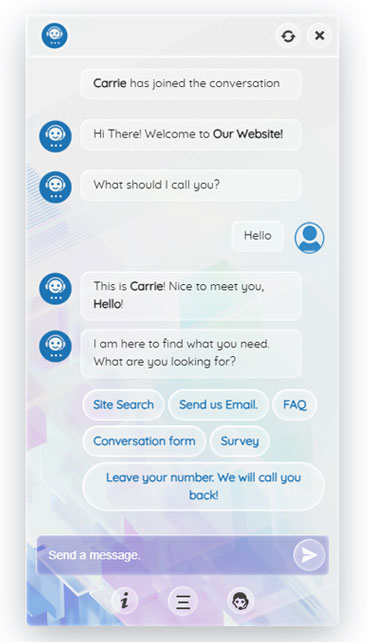
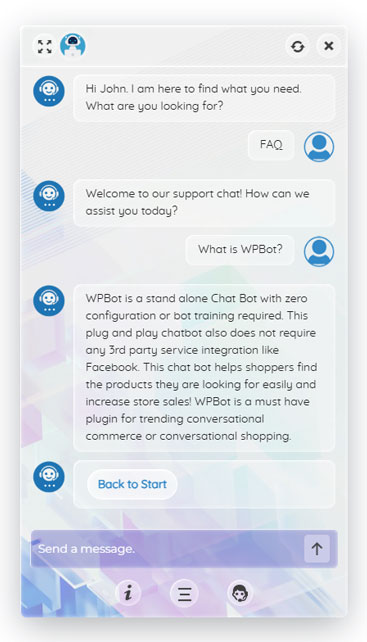
8.3.2

diff --git a/chatbot/templates/template-00/style.css b/chatbot/templates/template-00/style.css
@@ -1178,3 +1178,6 @@ div#wp-chatbot-desktop-expand span.dashicons.dashicons-editor-contract {
 .wp-chatbot-footer button#wp-chatbot-send-message {
     border: none;
 }
+.wp-chatbot-template-01 div#wp-chatbot-board-container {
+    width: 400px;
+}

diff --git a/chatbot/includes/admin/templates/rag.php b/chatbot/includes/admin/templates/rag.php
@@ -17,6 +17,7 @@ $wpchatbot_license_valid            = get_option('wpchatbot_license_valid');
         <h2 class="nav-tab-wrapper">
             <a href="#qcld-rag-settings-tab" class="nav-tab nav-tab-active"> Setting options</a>
             <a href="#rag-sync" class="nav-tab">Sync and upload options</a>
+            <a href="#rag-sources" class="nav-tab">Manage Sources</a>
             <a href="#rag-database" class="nav-tab">KnowledgeBase Database</a>
         </h2>
 
@@ -113,30 +114,80 @@ $wpchatbot_license_valid            = get_option('wpchatbot_license_valid');
                                <!-- ===========================
                             SYNC SETTINGS
                         ============================ -->
+                            <!-- ===========================
+                            PDF UPLOAD (AJAX)
+                        ============================ -->
                         <div class="wrap">
                             <h3>Sync Settings</h3>
-
+                            
                             <div class="mb-3">
                                 <input type="checkbox" id="rag_auto_sync_enabled" <?php checked(get_option('rag_auto_sync_enabled'), '1'); ?>>
                                 <label for="rag_auto_sync_enabled"><strong>Enable Auto Sync (on Save)</strong></label>
                                 <p class="description">Automatically update embeddings when a post or product is saved/updated.</p>
                             </div>
+                         <hr>
+                            <?php
+                            $sync_interval = get_option('rag_sync_interval', 'daily');
+                            $interval_labels = [
+                                'hourly' => '(Hourly)',
+                                'twicedaily' => '(Twice Daily)',
+                                'daily' => '(Daily)',
+                                'weekly' => '(Weekly)',
+                            ];
+                            $interval_desc = [
+                                'hourly' => 'once per hour',
+                                'twicedaily' => 'twice per day',
+                                'daily' => 'once per day',
+                                'weekly' => 'once per week',
+                            ];
+                            $current_label = $interval_labels[$sync_interval] ?? '(Daily)';
+                            $current_desc = $interval_desc[$sync_interval] ?? 'once per day';
+                            ?>
+
+                            <div class="mb-3">
+                                <input type="checkbox" id="rag_googlesheets_autosync_enabled" <?php checked(get_option('rag_googlesheets_autosync_enabled'), '1'); ?>>
+                                <label for="rag_googlesheets_autosync_enabled"><strong>Enable Google Sheets Auto Sync <span class="rag-sync-label"><?php echo $current_label; ?></span></strong></label>
+                                <p class="description">Automatically re-sync all Google Sheets in the knowledge base <span class="rag-sync-desc"><?php echo $current_desc; ?></span>.</p>
+                            </div>
+
+                            <div class="mb-3">
+                                <input type="checkbox" id="rag_googledocs_autosync_enabled" <?php checked(get_option('rag_googledocs_autosync_enabled'), '1'); ?>>
+                                <label for="rag_googledocs_autosync_enabled"><strong>Enable Google Docs Auto Sync <span class="rag-sync-label"><?php echo $current_label; ?></span></strong></label>
+                                <p class="description">Automatically re-sync all Google Docs in the knowledge base <span class="rag-sync-desc"><?php echo $current_desc; ?></span>.</p>
+                            </div>
+
+                            <div class="mb-3">
+                                <label for="rag_sync_interval"><strong>Sync Interval:</strong></label>
+                                <select id="rag_sync_interval">
+                                    <option value="daily" <?php selected(get_option('rag_sync_interval', 'daily'), 'daily'); ?>>Once Daily</option>
+                                    <option value="twicedaily" <?php selected(get_option('rag_sync_interval'), 'twicedaily'); ?>>Twice Daily</option>
+                                    <option value="hourly" <?php selected(get_option('rag_sync_interval'), 'hourly'); ?>>Hourly</option>
+                                    <option value="weekly" <?php selected(get_option('rag_sync_interval'), 'weekly'); ?>>Weekly</option>
+                                </select>
+                                <p class="description">Choose how often to run the automated synchronization.</p>
+                            </div>
 
                         </div>
-
-
-                            <!-- ===========================
-                            PDF UPLOAD (AJAX)
-                        ============================ -->
                         <div class="wrap">
                             <h3>Upload PDF for RAG</h3>
 
                             <form id="rag-pdf-form">
                                 <input type="file" id="rag-pdf-files" name="rag_pdf[]" multiple accept="application/pdf" />
-                                <br>
+                                <br><br>
                                 <button type="submit" class="button button-primary" id="rag-pdf-submit">Upload & Embed PDF</button>
+                                <button type="button" class="button" id="rag-media-pdf-btn">Select PDF from Media Library</button>
+                                <button type="button" class="button" id="qcld-rag-list-pdf-btn">List PDF Files from Media Library</button>
                                 <span id="rag-pdf-status" style="margin-left: 10px;"></span>
                             </form>
+
+                            <div id="qcld-pdf-list-container" style="display:none; margin-top:20px; border:1px solid #ddd; padding:15px; background:#fff;">
+                                <h4>Available PDF Files in Media Library</h4>
+                                <div id="qcld-pdf-items" style="max-height:300px; overflow-y:auto; margin-bottom:15px;">
+                                    <p>Loading files...</p>
+                                </div>
+                                <button type="button" class="button button-primary qcld-rag-index-selected-media" data-type="pdf">Index Selected PDF Files</button>
+                                <button type="button" class="button qcld-rag-close-media-list">Close List</button>
+                            </div>
 
                             <div id="rag-pdf-output" style="margin-top: 15px;"></div>
                         </div>
@@ -150,12 +201,40 @@ $wpchatbot_license_valid            = get_option('wpchatbot_license_valid');
 
                             <form id="rag-csv-form">
                                 <input type="file" id="rag-csv-files" name="rag_csv[]" multiple accept=".csv,text/csv" />
-                                <br>
+                                <br><br>
                                 <button type="submit" class="button button-primary" id="rag-csv-submit">Upload & Embed CSV</button>
                                 <span id="rag-csv-status" style="margin-left: 10px;"></span>
                             </form>
 
                             <div id="rag-csv-output" style="margin-top: 15px;"></div>
+                        </div>
+
+                        <!-- ===========================
+                            DOCX UPLOAD (AJAX)
+                        ============================ -->
+                        <div class="wrap">
+                            <h3>Upload Word (.docx) for RAG</h3>
+                            <p>Upload MS Word files to be indexed in the knowledge base.</p>
+
+                            <form id="rag-docx-form">
+                                <input type="file" id="rag-docx-files" name="rag_docx[]" multiple accept=".docx,application/vnd.openxmlformats-officedocument.wordprocessingml.document" />
+                                <br><br>
+                                <button type="submit" class="button button-primary" id="rag-docx-submit">Upload & Embed Word</button>
+                                <button type="button" class="button" id="rag-media-docx-btn">Select Word from Media Library</button>
+                                <button type="button" class="button" id="qcld-rag-list-docx-btn">List Word Files from Media Library</button>
+                                <span id="rag-docx-status" style="margin-left: 10px;"></span>
+                            </form>
+
+                            <div id="qcld-docx-list-container" style="display:none; margin-top:20px; border:1px solid #ddd; padding:15px; background:#fff;">
+                                <h4>Available Word Files in Media Library</h4>
+                                <div id="qcld-docx-items" style="max-height:300px; overflow-y:auto; margin-bottom:15px;">
+                                    <p>Loading files...</p>
+                                </div>
+                                <button type="button" class="button button-primary qcld-rag-index-selected-media" data-type="docx">Index Selected Word Files</button>
+                                <button type="button" class="button qcld-rag-close-media-list">Close List</button>
+                            </div>
+
+                            <div id="rag-docx-output" style="margin-top: 15px;"></div>
                         </div>
 
                         <!-- ===========================
@@ -167,15 +246,15 @@ $wpchatbot_license_valid            = get_option('wpchatbot_license_valid');
 
                             <form id="rag-xaml-form">
                                 <input type="file" id="rag-xaml-files" name="rag_xaml[]" multiple accept=".xaml,text/xml,application/xml" />
-                                <br>
-                                <button type="submit" class="button button-primary" id="rag-xaml-submit">Upload & Embed XML</button>
+                                <br><br>
+                                <button type="submit" class="button button-primary" id="rag-xaml-submit">Upload & Embed XAML</button>
                                 <span id="rag-xaml-status" style="margin-left: 10px;"></span>
                             </form>
 
                             <div id="rag-xaml-output" style="margin-top: 15px;"></div>
                         </div>
 
-                            <!-- ===========================
+                        <!-- ===========================
                             SITEMAP SUBMISSION
                         ============================ -->
                         <div class="wrap">
@@ -185,8 +264,46 @@ $wpchatbot_license_valid            = get_option('wpchatbot_license_valid');
                             <button type="button" id="botmaster_submit_sitemap_btn" class="button button-primary">Process Sitemap</button>
                             <div id="botmaster_sitemap_status" style="margin-top: 10px;"></div>
                         </div>
+
+                        <!-- ===========================
+                            GOOGLE SHEETS SUBMISSION
+                        ============================ -->
+                        <div class="wrap">
+                            <h3>Submit Google Sheet for RAG</h3>
+                            <p>Enter your publicly published Google Sheet URL (Publish to web -> Web page).</p>
+                            <input type="url" id="botmaster_googlesheet_url" class="regular-text" placeholder="https://docs.google.com/spreadsheets/d/e/.../pubhtml" style="width: 100%; max-width: 400px;">
+                            <button type="button" id="botmaster_submit_googlesheet_btn" class="button button-primary">Process Google Sheet</button>
+                            
+                            <div id="gs_progress_container" style="display:none; margin-top: 20px;">
+                                <div class="progress" style="height: 20px; background-color: #f1f1f1; border-radius: 5px; overflow: hidden; border: 1px solid #ddd;">
+                                    <div id="gs_progress_bar" class="progress-bar progress-bar-striped progress-bar-animated" role="progressbar" style="width: 0%; height: 100%; background-color: #28a745; transition: width 0.3s ease;"></div>
+                                </div>
+                                <p id="gs_progress_status" style="margin-top: 10px; font-weight: bold; font-size: 13px;"></p>
+                            </div>
+
+                            <div id="botmaster_googlesheet_status" style="margin-top: 10px;"></div>
                         </div>
-                        
+
+                        <!-- ===========================
+                            GOOGLE DOCS SUBMISSION
+                        ============================ -->
+                        <div class="wrap">
+                            <h3>Submit Google Doc for RAG</h3>
+                            <p>Enter your publicly published Google Doc URL (File -> Share -> Publish to web).</p>
+                            <input type="url" id="botmaster_googledoc_url" class="regular-text" placeholder="https://docs.google.com/document/d/.../pub" style="width: 100%; max-width: 400px;">
+                            <button type="button" id="botmaster_submit_googledoc_btn" class="button button-primary">Process Google Doc</button>
+                            
+                            <div id="gd_progress_container" style="display:none; margin-top: 20px;">
+                                <div class="progress" style="height: 20px; background-color: #f1f1f1; border-radius: 5px; overflow: hidden; border: 1px solid #ddd;">
+                                    <div id="gd_progress_bar" class="progress-bar progress-bar-striped progress-bar-animated" role="progressbar" style="width: 0%; height: 100%; background-color: #007bff; transition: width 0.3s ease;"></div>
+                                </div>
+                                <p id="gd_progress_status" style="margin-top: 10px; font-weight: bold; font-size: 13px;"></p>
+                            </div>
+
+                            <div id="botmaster_googledoc_status" style="margin-top: 10px;"></div>
+                        </div>
+                        </div>
+                        <h5 style="color: #c33;">Notes: These are based on AI system, so make sure you have enabled any AI features and set up valid API keys. <b><a href="https://wpbot.pro/docs/knowledgebase/how-to-use-an-embedded-vector-database-and-rag-to-get-customized-responses-from-ai/" target="_blank">Check this Tutorial for more details.</a></b></h5>
                         <div class="wrap">
                             <button class="qcld-btn-primary" id="save_rag_setting">Save Settings</button>
                         </div>
@@ -231,7 +348,85 @@ $wpchatbot_license_valid            = get_option('wpchatbot_license_valid');
         });
     });
     </script>
+    <div id="rag-sources" class="qcld-tab-content">
+            <?php if ( $wpchatbot_license_valid != 'master' && $wpchatbot_license_valid != 'professional'): ?>
+                <div class="wrap">
+                    <div style="background-color: #fee; border: 1px solid #c33; padding: 15px; margin: 20px 0; border-radius: 4px;">
+                        <p style="color: #c33; font-weight: bold; margin: 0; font-size: 14px;">
+                            These options are available with the WPBot Pro <a href="https://www.wpbot.pro/pricing/" target="_blank" style="color: #c33; text-decoration: underline;">Professional</a> and <a href="https://www.wpbot.pro/pricing/" target="_blank" style="color: #c33; text-decoration: underline;">Master</a> Licenses
+                        </p>
+                    </div>
+                </div>
+            <?php endif; ?>
+                        
+            <div style="<?php if ( $wpchatbot_license_valid != 'master' && $wpchatbot_license_valid != 'professional'){ echo 'opacity:0.5; pointer-events:none;'; } ?>">
+            <div class="wrap">
+                <h3>Manage Knowledge Base Sources</h3>
+                <p>Manage entire files or spreadsheets instead of individual rows.</p>
+                
+                <table class="wp-list-table widefat fixed striped">
+                    <thead>
+                        <tr>
+                            <th class="check-column"><input type="checkbox" id="rag-sources-select-all"></th>
+                            <th>Source Name / URL</th>
+                            <th>Type</th>
+                            <th>Documents</th>
+                            <th>Actions</th>
+                        </tr>
+                    </thead>
+                    <tbody id="rag-sources-list">
+                        <?php
+                        global $wpdb;
+                        $table = $wpdb->prefix . 'rag_documents';
+                        $sources = $wpdb->get_results("SELECT source_url, source_type, COUNT(*) as count, MAX(title) as display_name FROM $table GROUP BY source_url, source_type ORDER BY count DESC");
+                        
+                        if ($sources) {
+                            foreach ($sources as $source) {
+                                $display_url = $source->source_url ?: "Manual Upload";
+                                ?>
+                                <tr data-source-url="<?php echo esc_attr($source->source_url); ?>">
+                                    <th scope="row" class="check-column"><input type="checkbox" class="rag-source-checkbox" value="<?php echo esc_attr($source->source_url); ?>"></th>
+                                    <td>
+                                        <strong><?php echo esc_html($source->display_name); ?></strong><br>
+                                        <small style="color:#888;"><?php echo esc_html($display_url); ?></small>
+                                    </td>
+                                    <td><span class="badge" style="background:#eee; padding:2px 5px; border-radius:3px;"><?php echo esc_html($source->source_type); ?></span></td>
+                                    <td><?php echo esc_html($source->count); ?> chunks</td>
+                                    <td>
+                                        <button class="button rag-source-sync" data-url="<?php echo esc_attr($source->source_url); ?>" data-type="<?php echo esc_attr($source->source_type); ?>">Sync Now</button>
+                                        <button class="button button-link-delete rag-source-delete" data-url="<?php echo esc_attr($source->source_url); ?>">Delete All</button>
+                                    </td>
+                                </tr>
+                                <?php
+                            }
+                        } else {
+                            echo '<tr><td colspan="5">No sources found.</td></tr>';
+                        }
+                        ?>
+                    </tbody>
+                </table>
 
+                <div class="tablenav bottom">
+                    <div class="alignleft actions bulkactions">
+                        <select id="rag-sources-bulk-action">
+                            <option value="-1">Bulk Actions</option>
+                            <option value="delete">Delete Selected Sources</option>
+                        </select>
+                        <button type="button" id="rag-sources-apply-bulk" class="button action">Apply</button>
+                    </div>
+                </div>
+            </div>
+
+            <div class="wrap" style="margin-top: 40px; border-top: 1px solid #ddd; padding-top: 20px;">
+                <h3>Database Utilities</h3>
+                <div class="notice notice-info inline">
+                    <p>Upgrade your database to the new **High-Speed Binary Format**. This makes similarity searches significantly faster (10x+ speed improvement).</p>
+                </div>
+                <button type="button" id="rag-migrate-btn" class="button button-primary">Run High-Speed Migration</button>
+                <span id="rag-migrate-status" style="margin-left: 10px;"></span>
+            </div>
+        </div>
+    </div>
 
 
 

diff --git a/chatbot/templates/template-01/template.php b/chatbot/templates/template-01/template.php
@@ -34,7 +34,19 @@
                     <div id="wp-chatbot-desktop-expand" title="<?php esc_attr_e('Expand', 'chatbot'); ?>"><span class="dashicons dashicons-fullscreen-alt"></span></div>
 
                     <div class="wp-chatbot-header-avatar">
-                        <img src="<?php echo esc_url(QCLD_wpCHATBOT_IMG_URL . 'agent-0.png'); ?>" alt="<?php echo esc_attr($wpbot_header_name); ?>">
+                        <?php
+                        if (!defined('ABSPATH')) exit; // Exit if accessed directly
+                        if (get_option('wp_chatbot_icon') == "custom.png") {
+                        $wp_chatbot_custom_icon_path = (!empty(get_option('wp_chatbot_custom_icon_path'))) ? get_option('wp_chatbot_custom_icon_path') : QCLD_wpCHATBOT_IMG_URL . 'icon-1.png';
+                   
+                    } else if (get_option('wp_chatbot_icon') != "custom.png") {
+                        $wp_chatbot_custom_icon_path = QCLD_wpCHATBOT_IMG_URL . get_option('wp_chatbot_icon');
+                    } else {
+                        $wp_chatbot_custom_icon_path = QCLD_wpCHATBOT_IMG_URL . 'custom.png';
+                    }
+                    ?>
+                    <img src="<?php echo esc_url($wp_chatbot_custom_icon_path); ?>"
+                         alt="wpChatIcon" qcld_agent="<?php echo esc_url($wp_chatbot_custom_icon_path); ?>" >
                     </div>
                 </div>
                 <div class="wp-chatbot-header-actions">

diff --git a/chatbot/qcld-wpwbot.php b/chatbot/qcld-wpwbot.php
@@ -4,7 +4,7 @@
  * Plugin URI: https://wordpress.org/plugins/chatbot/
  * Description: ChatBot is a native WordPress ChatBot plugin to provide live chat support and lead generation
  * Donate link: https://www.wpbot.pro/
- * Version: 8.3.1
+ * Version: 8.3.2
  * @author    QuantumCloud
  * Author: ChatBot for WordPress - WPBot
  * Author URI: https://www.wpbot.pro/
@@ -41,7 +41,7 @@ if ( isset($check_existing_plugin) && ($check_existing_plugin == 'yes') || class
 }
 
 if ( ! defined( 'QCLD_wpCHATBOT_VERSION' ) ) {
-    define('QCLD_wpCHATBOT_VERSION', '8.3.1');
+    define('QCLD_wpCHATBOT_VERSION', '8.3.2');
 }
 if ( ! defined( 'QCLD_wpCHATBOT_REQUIRED_wpCOMMERCE_VERSION' ) ) {
     define('QCLD_wpCHATBOT_REQUIRED_wpCOMMERCE_VERSION', 2.2);